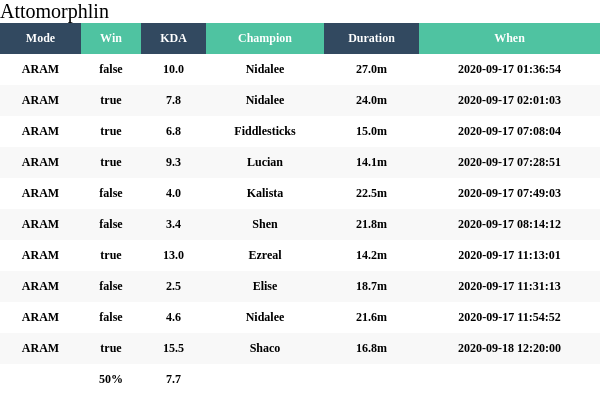
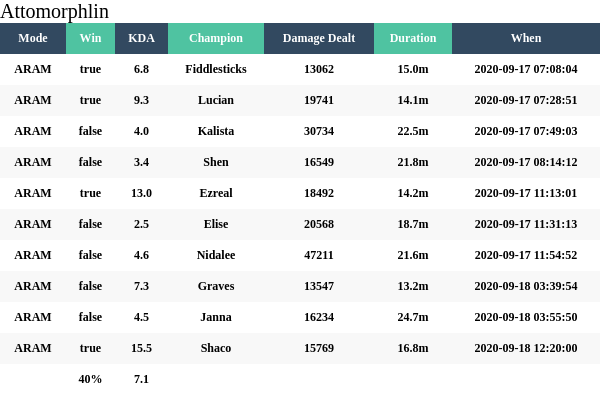
total dmg added

diff --git a/src/lol_promise.js b/src/lol_promise.js
@@ -79,6 +79,7 @@ const getMatchDetails = (id) => {
                 reject("Unable to connect to league api")
             }
             if(response.body) {
+                console.log(response)
                 resolve (response.body)
             }
             reject('Got empty body for getMatchDetails')
@@ -88,6 +89,7 @@ const getMatchDetails = (id) => {
 
 
 const getDetailedMatchDetails = (matches) => {
+    console.log(matches)
     return new Promise((resolve, reject) => {
         try {
             let promiseArray = matches.map(match => match.gameId).map(getMatchDetails)
@@ -107,7 +109,7 @@ const generateStats = (matches, name) => {
                 //getting player participant id in every match by name
                 const participantId = detailedMatch.participantIdentities.filter((summoner) => {
                     return summoner.player.summonerName == name
-                })[0].participantId
+                })[0].participantId - 1 
 
                 //getting win state
                 const winState = detailedMatch.participants[participantId-1].stats.win
@@ -117,9 +119,10 @@ const generateStats = (matches, name) => {
                     winState,
                     duration: (detailedMatch.gameDuration/60).toFixed(1),
                     startedAt: moment(detailedMatch.gameCreation).format('YYYY-MM-DD hh:mm:ss'),
-                    kda: ((detailedMatch.participants[participantId-1].stats.kills + detailedMatch.participants[participantId-1].stats.assists)/
-                    detailedMatch.participants[participantId-1].stats.deaths).toFixed(1),
-                    champion: detailedMatch.participants[participantId-1].championId
+                    kda: ((detailedMatch.participants[participantId].stats.kills + detailedMatch.participants[participantId-1].stats.assists)/
+                    detailedMatch.participants[participantId].stats.deaths).toFixed(1),
+                    champion: detailedMatch.participants[participantId].championId,
+                    totalDamageDealt: detailedMatch.participants[participantId].stats.totalDamageDealtToChampions
                     })  
             })
             resolve(statArray)

diff --git a/src/app.js b/src/app.js
@@ -27,16 +27,12 @@ client.on('message', message => {
       data.forEach(i => {
         avgKda+=parseFloat(i.kda)
         winRate+=i.winState
-        msg+="```" + i.startedAt + " | " + i.duration + "m | [" + i.mode + "] " + (i.winState === false ? "[LOSE]" : "[WIN]") + " kda: " + i.kda + ", champ: " + i.champion + "```"
       })
       avgKda/=data.length
       winRate/=data.length
-      msg+="`avg KDA: " + avgKda.toFixed(1) + "` `win rate: " + winRate*100 + "%`"
-      console.log('Current directory: ' + process.cwd());
       generateImage(data, name, avgKda.toFixed(1), winRate*100)
-      .then(() => message.reply("Here is stat", { files: ['image.png']}))
+      .then(() => message.reply("here is stat", { files: ['image.png']}))
       .catch((e) => console.log(e))
-      // return message.reply(msg)
     }).catch(error => message.reply("something went wrong with checking " + name + "\n" + error)) 
   } else {
     var avgKda = 0

diff --git a/src/templating.js b/src/templating.js
@@ -4,8 +4,7 @@ const nodeHtmlToImage = require('node-html-to-image')
 
 
 function generateImage (gameArray, summonerName, avgKda, winRate) {
-    console.log("STarting generationg img")
-    console.log('Current directory: ' + process.cwd());
+    console.log("Sеarting generationg img")
     return new Promise((resolve, reject) => {
         try {
             const tableTemplate = fs.readFileSync('views/table.def').toString();
